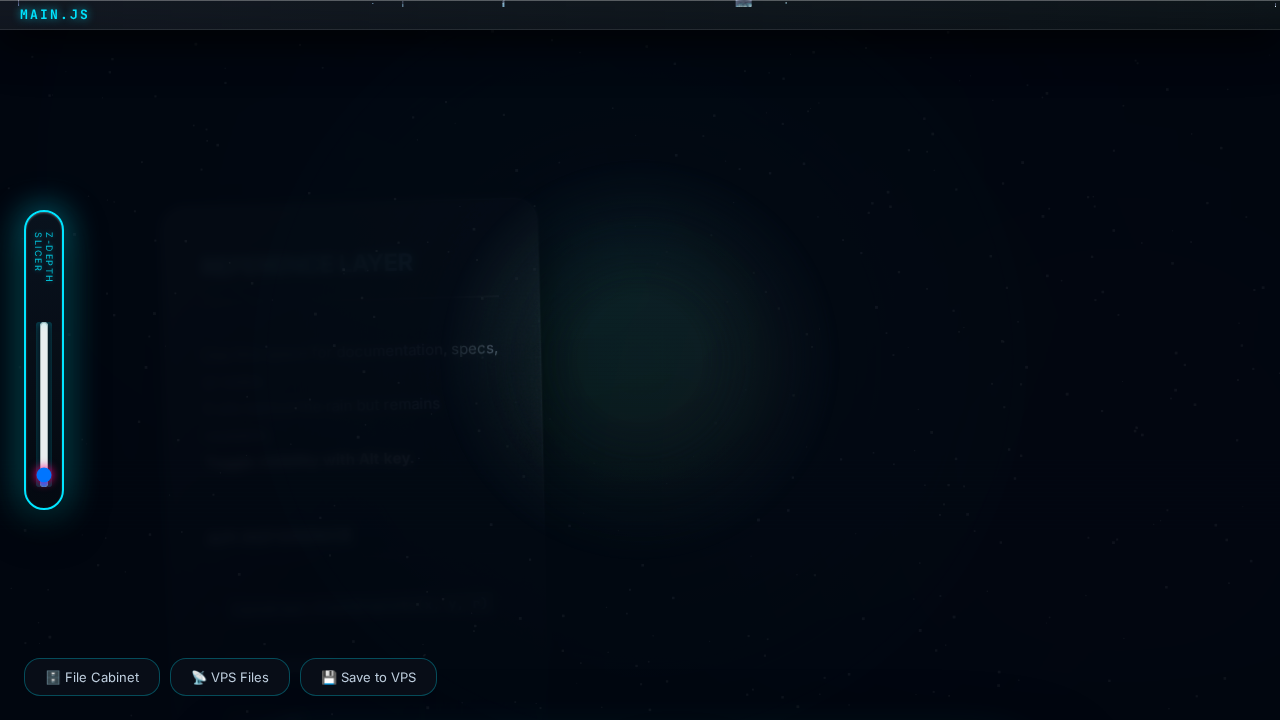
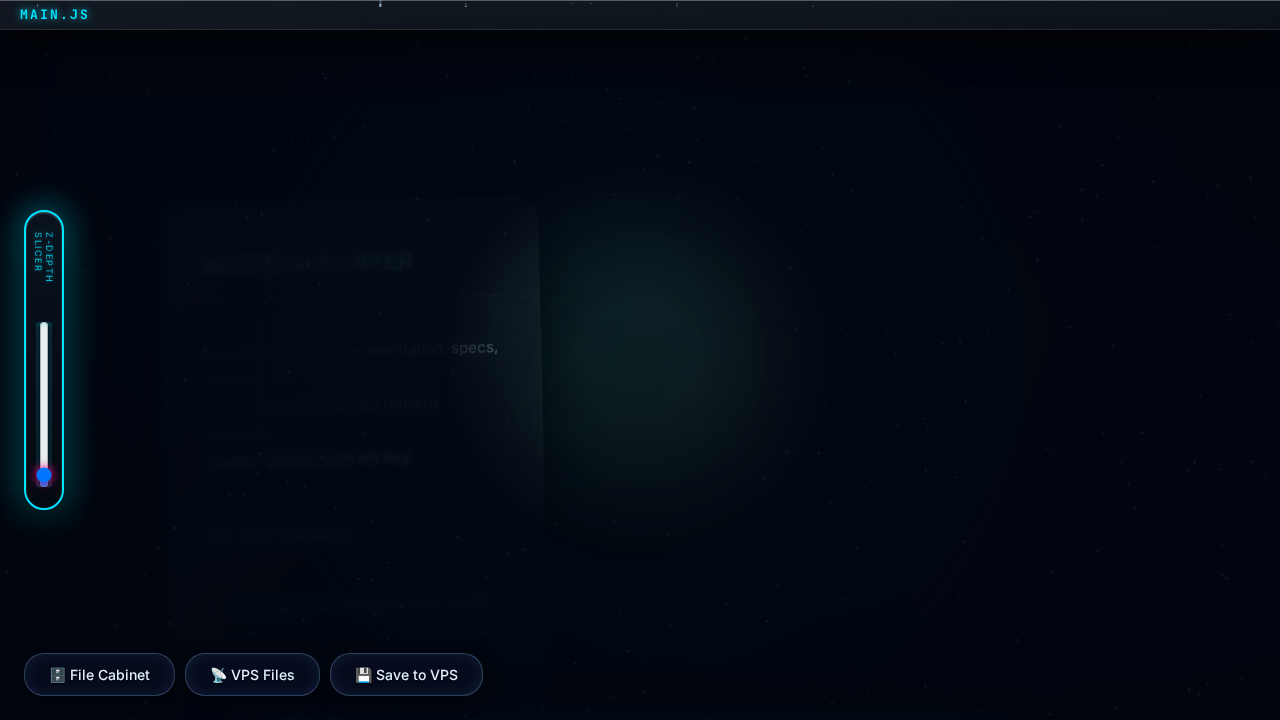
Merge pull request #170 from ford442/ui-improvements-655400036441943891
Enhance UI formatting and add obscured layer interactions

Pull request: Enhance UI formatting and add obscured layer interactions
This commit improves the dock and button styling using premium glassmorphism. It also introduces three new features taking advantage of obscured documents: Matrix Dissolve Reveal (Alt+Y), Echo Typing Ripple, and Obscured Layer Magnifier (Alt+M).

---
*PR created automatically by Jules for task [655400036441943891](https://jules.google.com/task/655400036441943891) started by @user*

Changed region(s): [[0.0312, 0.9167, 0.375, 0.9778], [0.5625, 0.0, 0.5938, 0.0306]]

diff --git a/index.html b/index.html
@@ -347,19 +347,25 @@
         id="btn-cabinet"
         title="Open 3D File Cabinet"
         style="
-          background: rgba(10, 15, 25, 0.8);
-          border: 1px solid rgba(0, 229, 255, 0.3);
-          color: #c0d0e0;
+          background: rgba(10, 15, 40, 0.6);
+          border: 1px solid rgba(140, 200, 255, 0.3);
+          color: #e0f0ff;
           font-family: inherit;
-          font-size: 13px;
-          padding: 10px 20px;
-          border-radius: 16px;
+          font-size: 14px;
+          font-weight: 500;
+          padding: 12px 24px;
+          border-radius: 20px;
           cursor: pointer;
-          backdrop-filter: blur(6px);
-          transition: background 0.2s;
+          backdrop-filter: blur(16px);
+          -webkit-backdrop-filter: blur(16px);
+          box-shadow: 0 4px 15px rgba(0, 0, 0, 0.5), inset 0 0 15px rgba(140, 200, 255, 0.1);
+          transition: all 0.3s cubic-bezier(0.2, 0.8, 0.2, 1);
+          text-shadow: 0 1px 2px rgba(0,0,0,0.8);
         "
-        onmouseover="this.style.background = 'rgba(0, 229, 255, 0.15)'"
-        onmouseout="this.style.background = 'rgba(10, 15, 25, 0.8)'"
+        onmouseover="this.style.background = 'rgba(10, 15, 40, 0.8)'; this.style.border = '1px solid rgba(0, 229, 255, 0.6)'; this.style.boxShadow = '0 6px 20px rgba(0, 229, 255, 0.3), inset 0 0 25px rgba(0, 229, 255, 0.2)'; this.style.backdropFilter = 'blur(20px)'; this.style.transform = 'scale(1.05) translateY(-2px)';"
+        onmouseout="this.style.background = 'rgba(10, 15, 40, 0.6)'; this.style.border = '1px solid rgba(140, 200, 255, 0.3)'; this.style.boxShadow = '0 4px 15px rgba(0, 0, 0, 0.5), inset 0 0 15px rgba(140, 200, 255, 0.1)'; this.style.backdropFilter = 'blur(16px)'; this.style.transform = 'scale(1) translateY(0)';"
+        onmousedown="this.style.boxShadow = 'inset 0 4px 10px rgba(0, 0, 0, 0.6), inset 0 0 5px rgba(0, 229, 255, 0.1)'; this.style.transform = 'scale(0.98) translateY(1px)';"
+        onmouseup="this.style.boxShadow = '0 6px 20px rgba(0, 229, 255, 0.3), inset 0 0 25px rgba(0, 229, 255, 0.2)'; this.style.transform = 'scale(1.05) translateY(-2px)';"
       >
         🗄️ File Cabinet
       </button>
@@ -368,19 +374,25 @@
         id="btn-vps-open"
         title="Open file from Contabo VPS (storage.noahcohn.com)"
         style="
-          background: rgba(10, 15, 25, 0.8);
-          border: 1px solid rgba(0, 229, 255, 0.3);
-          color: #c0d0e0;
+          background: rgba(10, 15, 40, 0.6);
+          border: 1px solid rgba(140, 200, 255, 0.3);
+          color: #e0f0ff;
           font-family: inherit;
-          font-size: 13px;
-          padding: 10px 20px;
-          border-radius: 16px;
+          font-size: 14px;
+          font-weight: 500;
+          padding: 12px 24px;
+          border-radius: 20px;
           cursor: pointer;
-          backdrop-filter: blur(6px);
-          transition: background 0.2s;
+          backdrop-filter: blur(16px);
+          -webkit-backdrop-filter: blur(16px);
+          box-shadow: 0 4px 15px rgba(0, 0, 0, 0.5), inset 0 0 15px rgba(140, 200, 255, 0.1);
+          transition: all 0.3s cubic-bezier(0.2, 0.8, 0.2, 1);
+          text-shadow: 0 1px 2px rgba(0,0,0,0.8);
         "
-        onmouseover="this.style.background = 'rgba(0, 229, 255, 0.15)'"
-        onmouseout="this.style.background = 'rgba(10, 15, 25, 0.8)'"
+        onmouseover="this.style.background = 'rgba(10, 15, 40, 0.8)'; this.style.border = '1px solid rgba(0, 229, 255, 0.6)'; this.style.boxShadow = '0 6px 20px rgba(0, 229, 255, 0.3), inset 0 0 25px rgba(0, 229, 255, 0.2)'; this.style.backdropFilter = 'blur(20px)'; this.style.transform = 'scale(1.05) translateY(-2px)';"
+        onmouseout="this.style.background = 'rgba(10, 15, 40, 0.6)'; this.style.border = '1px solid rgba(140, 200, 255, 0.3)'; this.style.boxShadow = '0 4px 15px rgba(0, 0, 0, 0.5), inset 0 0 15px rgba(140, 200, 255, 0.1)'; this.style.backdropFilter = 'blur(16px)'; this.style.transform = 'scale(1) translateY(0)';"
+        onmousedown="this.style.boxShadow = 'inset 0 4px 10px rgba(0, 0, 0, 0.6), inset 0 0 5px rgba(0, 229, 255, 0.1)'; this.style.transform = 'scale(0.98) translateY(1px)';"
+        onmouseup="this.style.boxShadow = '0 6px 20px rgba(0, 229, 255, 0.3), inset 0 0 25px rgba(0, 229, 255, 0.2)'; this.style.transform = 'scale(1.05) translateY(-2px)';"
       >
         📡 VPS Files
       </button>
@@ -389,19 +401,25 @@
         id="btn-vps-save"
         title="Save current file to Contabo VPS (Ctrl+Shift+S)"
         style="
-          background: rgba(10, 15, 25, 0.8);
-          border: 1px solid rgba(0, 229, 255, 0.3);
-          color: #c0d0e0;
+          background: rgba(10, 15, 40, 0.6);
+          border: 1px solid rgba(140, 200, 255, 0.3);
+          color: #e0f0ff;
           font-family: inherit;
-          font-size: 13px;
-          padding: 10px 20px;
-          border-radius: 16px;
+          font-size: 14px;
+          font-weight: 500;
+          padding: 12px 24px;
+          border-radius: 20px;
           cursor: pointer;
-          backdrop-filter: blur(6px);
-          transition: background 0.2s;
+          backdrop-filter: blur(16px);
+          -webkit-backdrop-filter: blur(16px);
+          box-shadow: 0 4px 15px rgba(0, 0, 0, 0.5), inset 0 0 15px rgba(140, 200, 255, 0.1);
+          transition: all 0.3s cubic-bezier(0.2, 0.8, 0.2, 1);
+          text-shadow: 0 1px 2px rgba(0,0,0,0.8);
         "
-        onmouseover="this.style.background = 'rgba(0, 229, 255, 0.15)'"
-        onmouseout="this.style.background = 'rgba(10, 15, 25, 0.8)'"
+        onmouseover="this.style.background = 'rgba(10, 15, 40, 0.8)'; this.style.border = '1px solid rgba(0, 229, 255, 0.6)'; this.style.boxShadow = '0 6px 20px rgba(0, 229, 255, 0.3), inset 0 0 25px rgba(0, 229, 255, 0.2)'; this.style.backdropFilter = 'blur(20px)'; this.style.transform = 'scale(1.05) translateY(-2px)';"
+        onmouseout="this.style.background = 'rgba(10, 15, 40, 0.6)'; this.style.border = '1px solid rgba(140, 200, 255, 0.3)'; this.style.boxShadow = '0 4px 15px rgba(0, 0, 0, 0.5), inset 0 0 15px rgba(140, 200, 255, 0.1)'; this.style.backdropFilter = 'blur(16px)'; this.style.transform = 'scale(1) translateY(0)';"
+        onmousedown="this.style.boxShadow = 'inset 0 4px 10px rgba(0, 0, 0, 0.6), inset 0 0 5px rgba(0, 229, 255, 0.1)'; this.style.transform = 'scale(0.98) translateY(1px)';"
+        onmouseup="this.style.boxShadow = '0 6px 20px rgba(0, 229, 255, 0.3), inset 0 0 25px rgba(0, 229, 255, 0.2)'; this.style.transform = 'scale(1.05) translateY(-2px)';"
       >
         💾 Save to VPS
       </button>

diff --git a/src/styles_14.css b/src/styles_14.css
@@ -1032,3 +1032,58 @@ body.stack-deck-active .echo-document:hover {
   z-index: 1000 !important;
   opacity: 1 !important;
 }
+
+/* Matrix Dissolve Reveal (Alt+Y) */
+body.matrix-dissolve-active #editor {
+  opacity: 0.1;
+  mask-image: repeating-linear-gradient(
+    45deg,
+    black,
+    black 10px,
+    transparent 10px,
+    transparent 20px
+  );
+  -webkit-mask-image: repeating-linear-gradient(
+    45deg,
+    black,
+    black 10px,
+    transparent 10px,
+    transparent 20px
+  );
+  transition: opacity 0.4s ease, mask-image 0.4s ease, -webkit-mask-image 0.4s ease;
+  pointer-events: none; /* Let clicks pass through to echo documents */
+}
+body.matrix-dissolve-active .echo-document {
+  opacity: 1 !important; /* Bring hidden layers to full opacity */
+  filter: blur(0px) !important; /* Remove blur */
+  transition: opacity 0.4s ease, filter 0.4s ease !important;
+}
+
+/* Echo Typing Ripple */
+body.typing-pulse .echo-document {
+  filter: brightness(1.3) hue-rotate(calc(var(--echo-tint, 0deg) + 20deg)) blur(2px) !important;
+  border-color: rgba(0, 229, 255, 0.7) !important;
+  box-shadow:
+    0 0 20px rgba(0, 229, 255, 0.2),
+    inset 0 0 10px rgba(0, 229, 255, 0.2) !important;
+  transition: all 0.1s ease-out !important;
+}
+
+/* Obscured Layer Magnifier (Alt+M) */
+body.obscured-magnifier-active .echo-document {
+  clip-path: circle(150px at var(--mag-x) var(--mag-y));
+  -webkit-clip-path: circle(150px at var(--mag-x) var(--mag-y));
+  opacity: 1 !important;
+  filter: blur(0px) brightness(1.2) !important;
+  z-index: 1000 !important;
+  transform: translate3d(var(--tx, 0), var(--ty, 0), 250px) scale(1.1) !important;
+  border: 2px solid rgba(0, 229, 255, 0.8) !important;
+  transition: opacity 0.2s, filter 0.2s, transform 0.2s !important;
+  pointer-events: auto !important;
+}
+
+body.obscured-magnifier-active #editor {
+  opacity: 0.3; /* Dim the main editor so the magnifier stands out */
+  filter: blur(4px);
+  transition: opacity 0.3s ease, filter 0.3s ease;
+}

diff --git a/src/main_init_4.js b/src/main_init_4.js
@@ -381,6 +381,12 @@ document.addEventListener("keydown", (e) => {
       }
     }
   }
+  // Matrix Dissolve Reveal (Alt+Y)
+  if (e.altKey && e.code === "KeyY" && !e.shiftKey) {
+    e.preventDefault();
+    document.body.classList.add("matrix-dissolve-active");
+  }
+
   // Holographic Document Dispersion (Alt+X)
   if (e.altKey && e.code === "KeyX" && !e.shiftKey) {
     e.preventDefault();
@@ -395,6 +401,11 @@ document.addEventListener("keydown", (e) => {
 });
 
 document.addEventListener("keyup", (e) => {
+  // Matrix Dissolve Reveal (Alt+Y)
+  if (e.key === "y" || e.key === "Y" || e.key === "Alt") {
+    document.body.classList.remove("matrix-dissolve-active");
+  }
+
   // Holographic Document Dispersion (Alt+X)
   if (e.key === "x" || e.key === "X" || e.key === "Alt") {
     document.body.classList.remove("dispersion-active");
@@ -759,5 +770,45 @@ document.addEventListener("keydown", (e) => {
 document.addEventListener("keyup", (e) => {
   if (e.key === "i" || e.key === "I") {
     document.body.classList.remove("layer-isolate-active");
+  }
+});
+
+// Echo Typing Ripple
+let typingTimeout;
+document.addEventListener("keydown", (e) => {
+  // Only trigger if typing inside the editor, input, or textarea
+  if (e.target.closest(".monaco-editor") || e.target.tagName === "INPUT" || e.target.tagName === "TEXTAREA") {
+    // Ignore modifier keys
+    if (e.key === "Shift" || e.key === "Control" || e.key === "Alt" || e.key === "Meta") return;
+
+    document.body.classList.add("typing-pulse");
+
+    clearTimeout(typingTimeout);
+    typingTimeout = setTimeout(() => {
+      document.body.classList.remove("typing-pulse");
+    }, 150); // Remove quickly for a snappy ripple
+  }
+});
+
+// Obscured Layer Magnifier (Alt+M)
+document.addEventListener("keydown", (e) => {
+  if (e.altKey && e.code === "KeyM" && !e.shiftKey && !e.ctrlKey && !e.metaKey) {
+    e.preventDefault();
+    if (!document.body.classList.contains("obscured-magnifier-active")) {
+      document.body.classList.add("obscured-magnifier-active");
+    }
+  }
+});
+
+document.addEventListener("keyup", (e) => {
+  if (e.key === "m" || e.key === "M" || e.key === "Alt") {
+    document.body.classList.remove("obscured-magnifier-active");
+  }
+});
+
+document.addEventListener("mousemove", (e) => {
+  if (document.body.classList.contains("obscured-magnifier-active")) {
+    document.body.style.setProperty("--mag-x", `${e.clientX}px`);
+    document.body.style.setProperty("--mag-y", `${e.clientY}px`);
   }
 });

diff --git a/screenshot_with_tabs.js b/screenshot_with_tabs.js
@@ -1,33 +1,23 @@
-const { chromium } = require('playwright');
-
+const { sync_playwright } = require('playwright');
 (async () => {
+  const { chromium } = require('playwright');
   const browser = await chromium.launch();
   const page = await browser.newPage();
+  await page.goto('http://localhost:5173');
+  await page.waitForTimeout(3000); // wait for load
 
-  await page.goto('http://localhost:5173/');
-  await page.waitForTimeout(1000);
-
-  // Add some dummy files using a method that exists
+  // Add some fake tabs using the global tabManager
   await page.evaluate(() => {
-    // If tabManager exists globally
-    if (window.tabManager && window.tabManager.addTab) {
-      for (let i = 0; i < 15; i++) {
-        window.tabManager.addTab(`file_${i}.js`, `// Content for file ${i}\nconsole.log(${i});`, 'javascript');
-      }
-    }
+    window.tabManager.addFile('app.js', 'console.log("app");', 'javascript');
+    window.tabManager.addFile('style.css', 'body { color: red; }', 'css');
+    window.tabManager.addFile('index.html', '<div>Hello</div>', 'html');
+    window.tabManager.addFile('utils.js', 'export const pi = 3.14;', 'javascript');
+    window.tabManager.addFile('data.json', '{"key": "value"}', 'json');
   });
 
   await page.waitForTimeout(1000);
-
-  // Select staircase view
-  await page.selectOption('#view-mode-select', 'staircase');
+  await page.selectOption('#view-mode-select', 'rolodex');
   await page.waitForTimeout(1000);
-  await page.screenshot({ path: 'screenshot_staircase_tabs.png' });
-
-  // Select pyramid view
-  await page.selectOption('#view-mode-select', 'pyramid');
-  await page.waitForTimeout(1000);
-  await page.screenshot({ path: 'screenshot_pyramid_tabs.png' });
-
+  await page.screenshot({ path: 'screenshot_rolodex_tabs.png' });
   await browser.close();
 })();

diff --git a/src/styles_2.css b/src/styles_2.css
@@ -68,6 +68,17 @@
   justify-content: stretch;
   gap: 8px;
   width: 100%;
+  padding: 10px;
+  background: rgba(0, 0, 0, 0.2);
+  border-radius: 10px;
+  border: 1px solid rgba(255, 255, 255, 0.05);
+  box-shadow: inset 0 2px 5px rgba(0, 0, 0, 0.3);
+  transition: background 0.3s ease, border-color 0.3s ease;
+  box-sizing: border-box;
+}
+.dock-group:hover {
+  background: rgba(0, 229, 255, 0.05);
+  border-color: rgba(0, 229, 255, 0.2);
 }
 .dock-group label {
   display: flex;